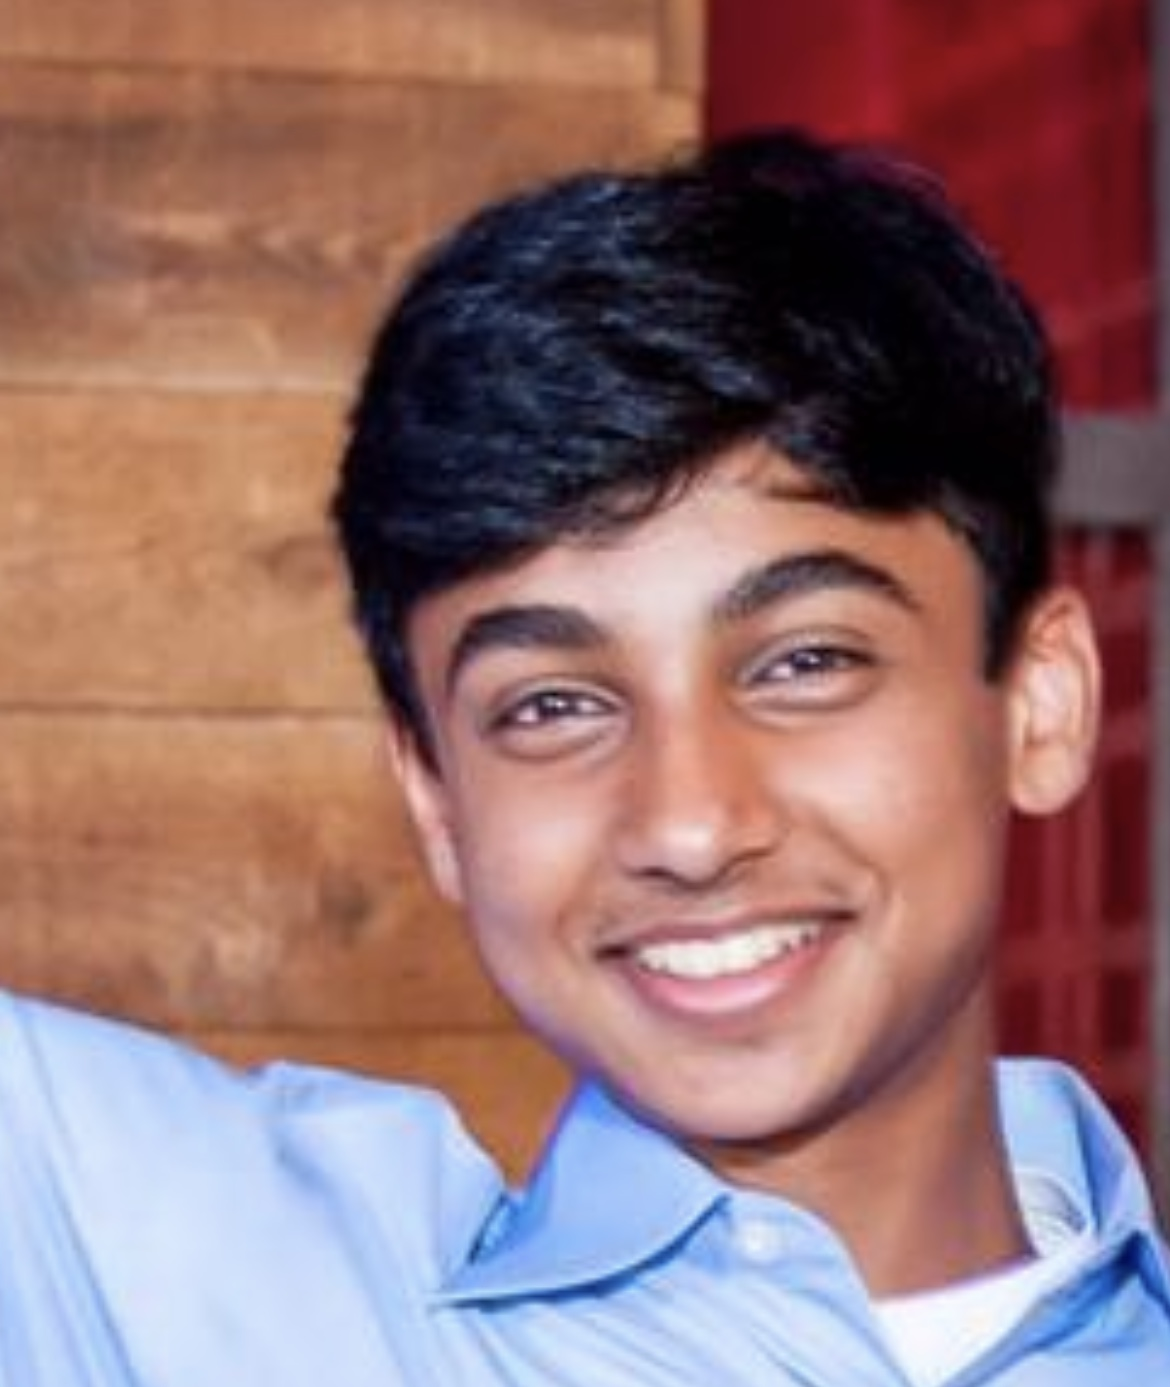
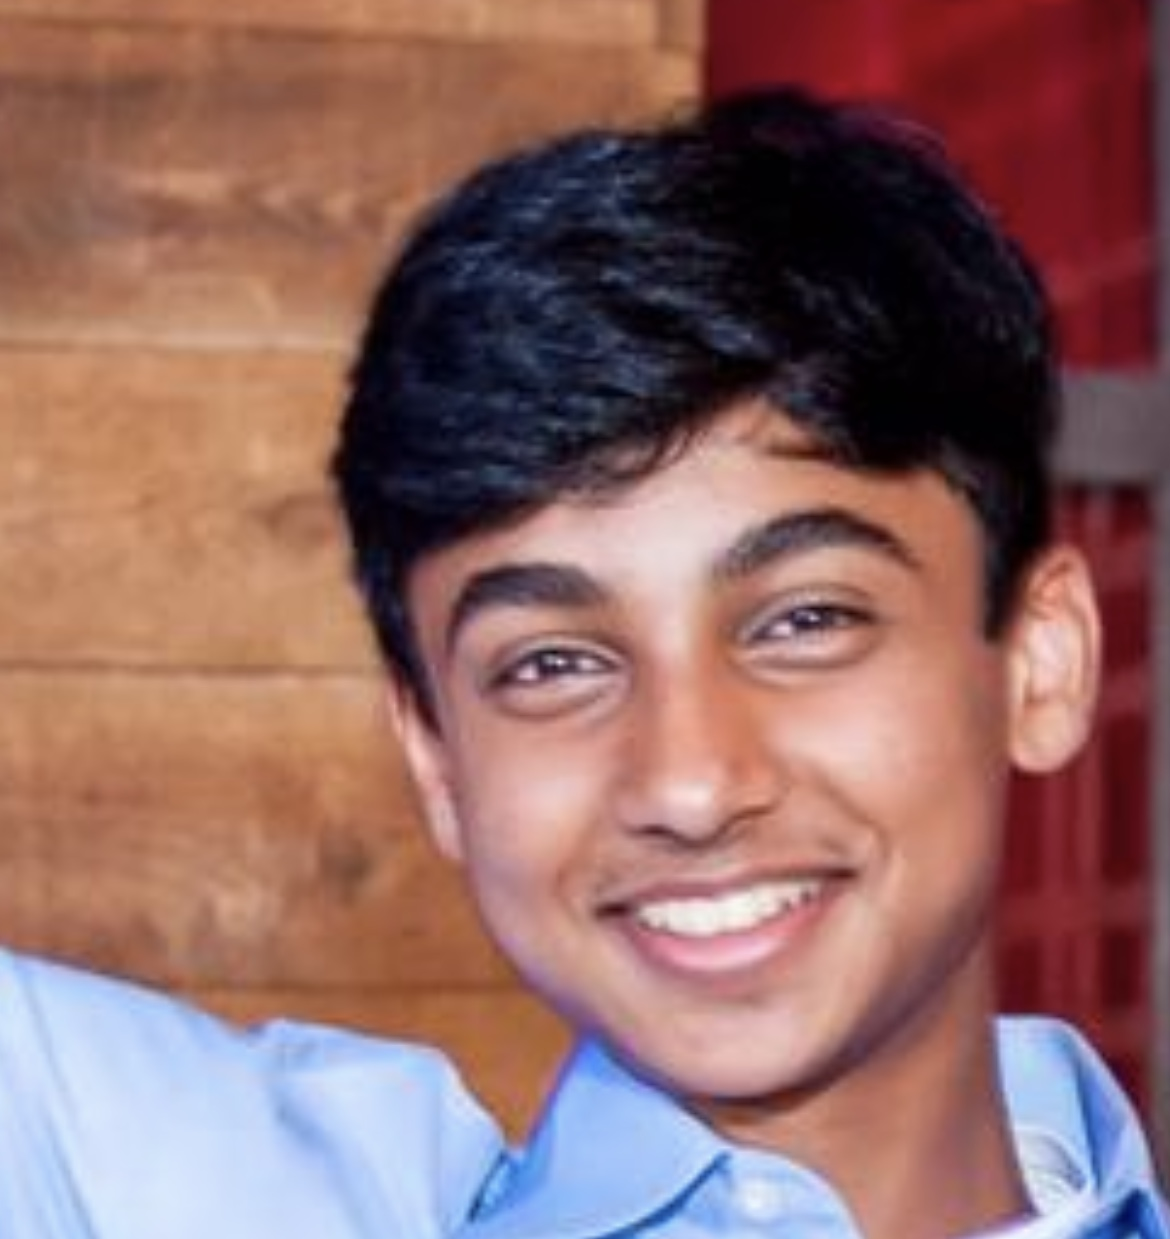
Added new rRishi pic, updated Project page routing

diff --git a/src/components/Projects.js b/src/components/Projects.js
@@ -9,24 +9,18 @@ const Projects = () => {
 
     return (
         <Container>
-            {/* <Header>
-                Student-Led Projects
-            </Header>
-            <Subheader variant="alert-subheader"> COVID-19 Update </Subheader>
-            <BodyText>
-                Due to the COVID-19 pandemic, project groups will be temporarily suspended for the foreseeable future. 
-                Pending their resumption, this page will be updated with new information.
-                For now, the previous semester's project group descriptions remain below for your reference.
-            </BodyText> */}
             <Header>
-                Projects
+                Project Groups
             </Header>
-            <Subheader variant="alert-subheader"> Spring 2022 Update </Subheader>
+            <Subheader variant="alert-subheader"> Spring-22 Update </Subheader>
             <BodyText>
-                Currently, there are no ongoing projects in AI@UW. Please reach out to Tanish Nahata, Anniruddh Kumar, or Taha Sawar in our slack channel in regards to forming one.
+            Project Groups have temporarily been paused while feedback is being gathered and student's preferences are being heard. Pending their resumption, this website will be 
+            updated with the new information. For now, the Spring 2019 project groups remain below for your reference.
             </BodyText>
-            <hr></hr>
-            {/* <Project name="Engr-Auto Team">
+            {/* <Header>
+                Projects
+            </Header> */}
+            <Project name="Engr-Auto Team">
                 The engr-auto group is an exciting new collaboration between the Formula SAE Autonomous team and AI@UW! Project members will have the opportunity to use state-of-the-art computer vision algorithms to detect obstacles and generate a path for a ⅓ scale Formula style race car to drive at the 2021 Formula Student Germany competition. Experience developed over the course of the project will include convolutional neural networks, algorithm implementation, ROS, localization, and data collection. If you are interested in using AI to solve the real-world engineering problem of autonomous driving, join the #engr-auto group on Slack for future updates!
                 <ul className="no-bullet-list">
                     <li><b>Time-Commitment:</b> 3 hours/week</li>
@@ -34,12 +28,12 @@ const Projects = () => {
                     <li><b>Prereqs:</b> Anyone with some basic coding experience is welcome to join the team! Knowledge of basic neural networks, python or tensorFlow is recommended</li>
                     <li><b>Meeting Time:</b> Sundays @12pm</li>
                 </ul>
-            </Project> */}
+            </Project> 
             <br></br>
-            {/* <Header>
+             <Header>
                 For Credit/Pay Projects
-            </Header> */}
-            {/* <Project name="Application of Machine Learning to Analyze Molecular Dynamics Simulations">
+            </Header> 
+            <Project name="Application of Machine Learning to Analyze Molecular Dynamics Simulations">
                 We are currently developing machine learning methods to predict the thermodynamic properties of interfaces in liquid-phase environments. Our datasets consist of hundreds of thousands of atomic positions obtained from classical molecular dynamics (MD) simulations. An MD simulation predicts the motion of atoms and molecules at molecular length and timescales (nm and ps respectively). Typically, simulation data are analyzed using techniques based on statistical mechanics, but we have demonstrated that machine learning can drastically reduce the simulation time required to make predictions of one particular thermodynamic property that is critical for predicting interfacial hydrophobicity – the hydration free energy - which is relevant to the design of biological materials. In our present work, we have used LeNet5, a 2D convolutional neural network architecture developed by LeCun et al. The project would involve using already curated datasets and testing the effect of different machine learning algorithms on prediction accuracy. Students are also free to extend the scope of the project and try other machine learning models, such as 3-D CNNs or graph neural networks, which would require modification of the input data representation.
 
                 <ul className="no-bullet-list">
@@ -50,8 +44,8 @@ const Projects = () => {
                     <li><b>Time-Commitment:</b> 10 hrs / week (for credits)</li>
                     <li><b>Contact Info:</b> Reid Van Lehn, vanlehn@wisc.edu</li>
                 </ul>
-            </Project> */}
-            {/* <Project name="Exploring the Neural Basis of Consciousness">
+            </Project> 
+            <Project name="Exploring the Neural Basis of Consciousness">
                 We seek to identify changes in brain activity and connectivity that underlie changes in arousal state using imaging and electrophysiology data recorded from neurosurgical patients. In this project, students will use machine learning tools to track the dynamics of brain network configuration with the goals of (a) identifying subsets of network configurations that associate with specific arousal states (wake, sleep, anesthesia), (b) building Markov models to identify and quantify state transitions, (c) developing analgorithm to predict arousal state in real-time, and (d) developing and applying matrix-completion algorithms to facilitate summarizing data across subjects.
 
                 <ul className="no-bullet-list">
@@ -62,8 +56,8 @@ const Projects = () => {
                     <li><b>Time-Commitment:</b> 10 hrs/week minimum (either for credits or wage)</li>
                     <li><b>Contact Info:</b> Matthew Banks, mibanks@wisc.edu</li>
                 </ul>
-            </Project> */}
-            {/* <Project name="Building an Automated Machine Learning Algorithm for Characterization of Anxiety-related Vocalizations in Non-human Primates">
+            </Project> 
+            <Project name="Building an Automated Machine Learning Algorithm for Characterization of Anxiety-related Vocalizations in Non-human Primates">
                 Anxiety disorders (ADs) are among the most common psychiatric illnesses in the world and cause significant psychosocial, emotional, and physical distress. ADs typically emerge early in childhood and follow a chronic course. A primary interest of the Kalin Lab is to characterize the neurodevelopmental origins of anxiety, both in human andmonkey models. Due to their extensive behavioral and neuroanatomical similarities to humans, primate models play a critical role in psychopathology research. Specifically, they allow for mechanistic studies of underlying alterations in neural circuitry. Primates display a variety of behaviors when exposed to threatening stimuli, many of which contribute to an anxious temperament. Of these, a key indicator of an anxious phenotype is the frequency and quality of vocalizations. In a large sample of preadolescent monkeys, we hope to build and train an unsupervised ML algorithm that can detect and differentiate a range of anxiety-related vocal events.
 
                 <ul className="no-bullet-list">
@@ -122,7 +116,7 @@ const Projects = () => {
             <Header> Misc. Projects </Header>
             <Project name="Informatics Skunkworks">
                 Skunkworks members are working on a range of projects which can be viewed in the table <a target="_blank" href="https://skunkworks.engr.wisc.edu/projects/">here</a>.
-            </Project> */}
+            </Project>
         </Container>
     );
 }

diff --git a/src/components/Nav.js b/src/components/Nav.js
@@ -69,6 +69,8 @@ const Nav = () => {
                         <Link to ="/leadership">LEADERSHIP</Link>
                         <Link to ="/involvement">GET INVOLVED</Link>
                         <Link to ="/study">STUDY GROUPS</Link>
+                        {/* <Link to ="/projects">PROJECT GROUPS</Link> 
+                        // Uncomment to bring in projects page*/} 
                         <Link to ="/seminars">SEMINARS</Link>
                         <Link to ="/contact">CONTACT</Link>
                     </> 
@@ -85,6 +87,8 @@ const Nav = () => {
                         <Link to ="/leadership">LEADERSHIP</Link>
                         <Link to ="/involvement">GET INVOLVED</Link>
                         <Link to ="/study">STUDY GROUPS</Link>
+                        {/* <Link to ="/projects">PROJECT GROUPS</Link> 
+                        // Uncomment to bring in projects page*/}
                         <Link to ="/seminars">SEMINARS</Link>
                         <Link to ="/contact">CONTACT</Link>
                     </Menu>

diff --git a/src/components/StudyGroups.js b/src/components/StudyGroups.js
@@ -11,11 +11,10 @@ const StudyGroups = () => {
             <Header>
                 Study Groups
             </Header>
-            <Subheader variant="alert-subheader"> COVID-19 Update </Subheader>
+            <Subheader variant="alert-subheader"> Spring-22 Update </Subheader>
             <BodyText>
-                Due to the COVID-19 pandemic, study groups will be temporarily suspended for the foreseeable future. 
-                Pending their resumption, this page will be updated with new information.
-                For now, the previous semester's study group descriptions remain below for your reference.
+               Study Groups have temporarily been paused while feedback is gathered and student's preferencees are heard. Pending their resumption, this website will be 
+               updated with the new information. For now, the Spring 2019 study groups remain below for your reference.
             </BodyText>
             <hr></hr>
             <Project name= "Deep Learning Study Group">

diff --git a/src/components/Leadership.js b/src/components/Leadership.js
@@ -23,7 +23,7 @@ const Leadership = () => {
                     <Grid item xs>
                         <Portrait
                             file="taha.jpg"
-                            title="Head of Project Groups,  and Finances"
+                            title="Head of Project & Study Groups, PR, and Finances"
                             name="Taha Sawar"
                             link="https://www.linkedin.com/in/sawar/"
                         />

diff --git a/src/App.js b/src/App.js
@@ -31,6 +31,10 @@ function App() {
               <Involvement/>
               <Footer></Footer>
             </Route>
+            {/* <Route path = "/projects"> // Uncomment to bring in projects page
+              <Projects />
+              <Footer></Footer>
+            </Route> */}
             <Route path="/leadership">
               <Leadership/>
               <Footer></Footer>
